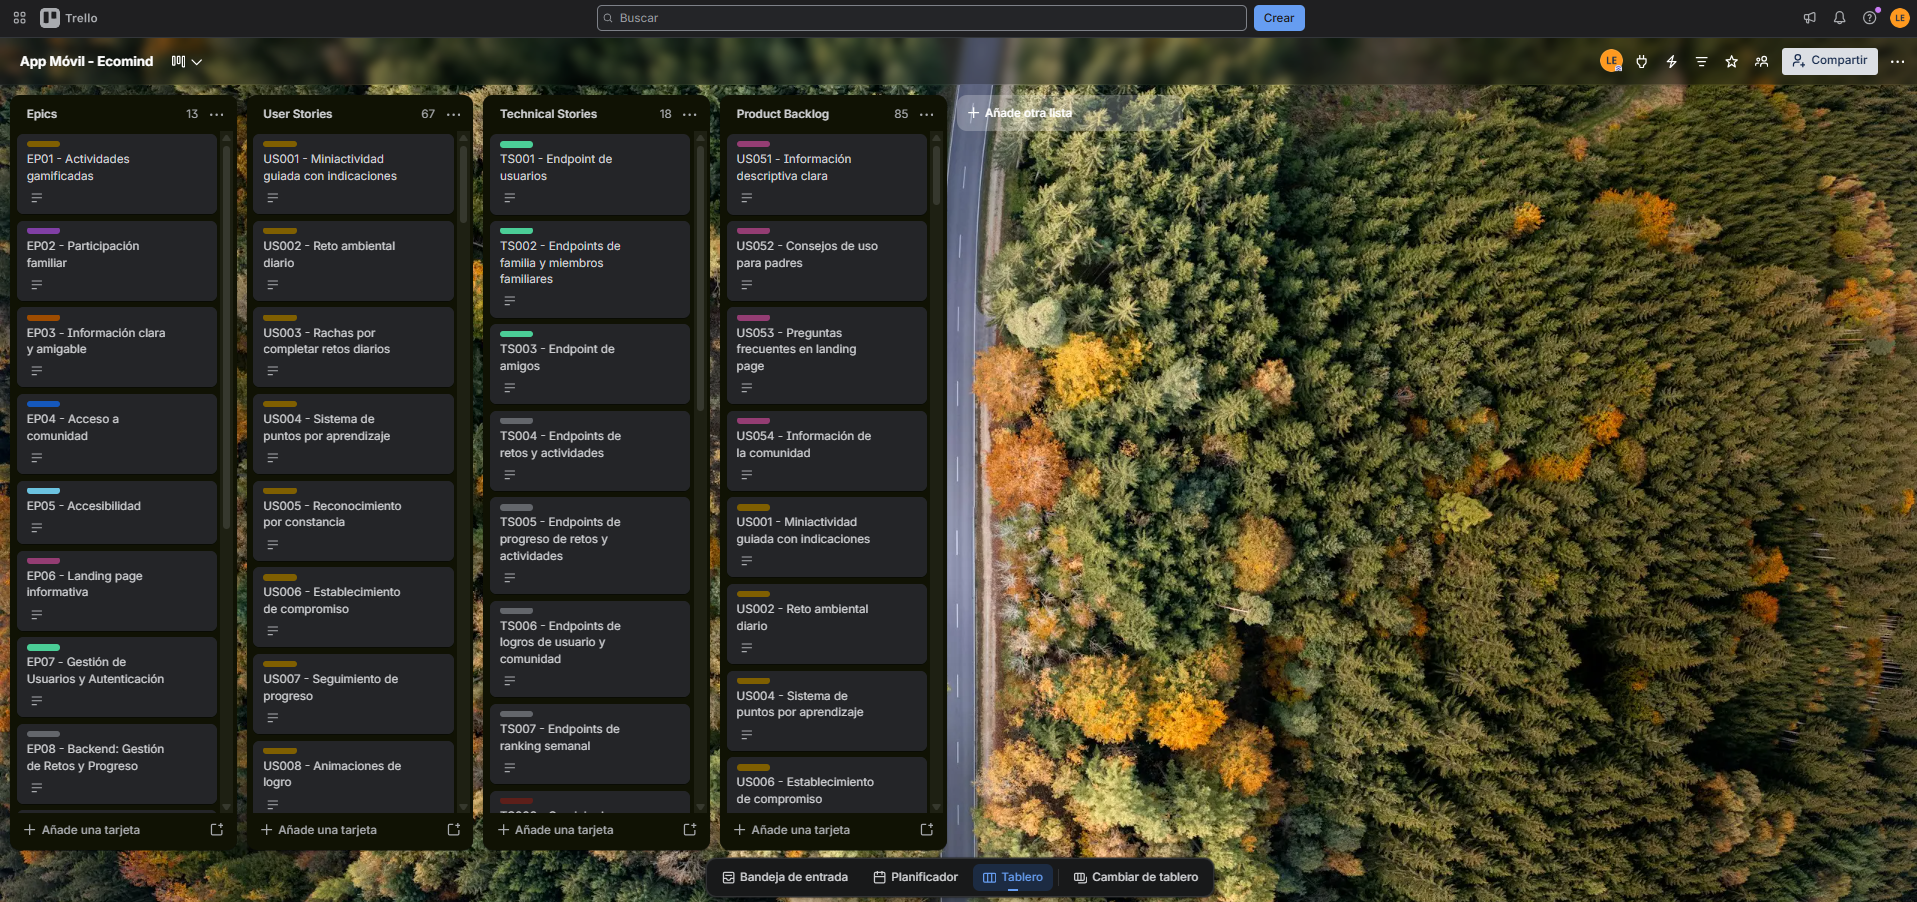
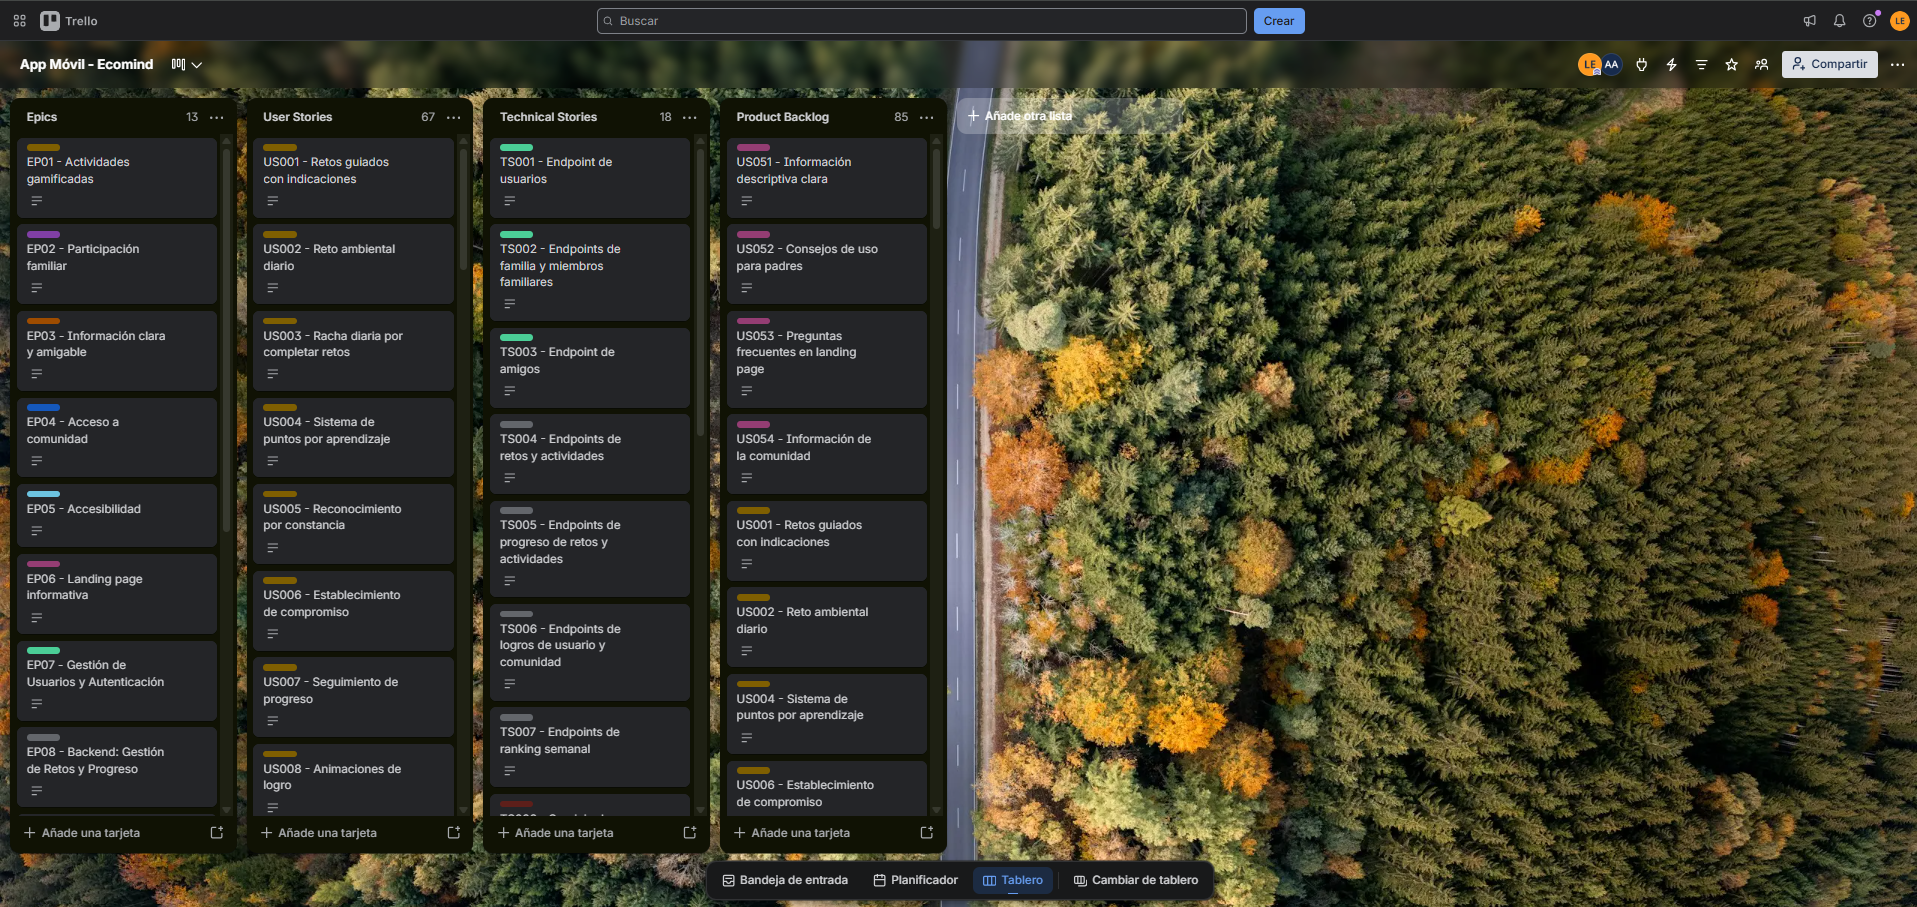
docs(chapter-ii): update users stories 1 and 3

diff --git a/README.md b/README.md
@@ -78,7 +78,7 @@ Proyecto <br>
 | 1.0.0    | 15/09/2026     |  Isabel Aponte, Alejandra Astocondor  | docs: agregar diseño de entrevistas  <br> docs: agregar registro de entrevistas <br> docs: agregar Big Picture EventStorming y EventStorming <br> docs: agregar Candidate Context Discovery  |
 | 1.0.0    | 16/09/2026     |  Leo Dulanto, Alejandra Astocondor, Mauricio Pajes  | docs: agregar user stories  <br> docs: agregar message flow <br> docs: agregar product backlog <br> docs: agregar impact mapping  <br> docs: agregar registro de entrevistas |
 | 1.0.0    | 17/09/2026     | Katty Philco, Isabel Aponte | docs: agregar registro de entrevistas <br> docs: agregar sección Needfinding <br> docs: agregar Bounded Context: Monetization <br> docs: agregar Bounded Context Software Architecture Component Level and code diagrams  <br>  |
-| 1.0.0    | 18/09/2026     | Alejandra Astocondor, Isabel Aponte, Leo Dulanto, Katty Philco | docs: agregar diagramas Bounded Context Quest <br> docs: agregar Bounded Context: Learning <br> docs: agregar bounded context canvases community <br> docs: agregar Bounded Context: IAM  <br> docs: agregar Bounded Context: User <br> docs: agregar lenguaje ubicuo <br> docs: agregar Bounded Context: Community <br> docs: agregar Bounded Context: Gamification <br> docs: agregar objetivos SMART  |
+| 1.0.0    | 18/09/2026     | Alejandra Astocondor, Isabel Aponte, Leo Dulanto, Katty Philco, Mauricio Pajes | docs: agregar diagramas Bounded Context Quest <br> docs: agregar Bounded Context: Learning <br> docs: agregar bounded context canvases community <br> docs: agregar Bounded Context: IAM  <br> docs: agregar Bounded Context: User <br> docs: agregar lenguaje ubicuo <br> docs: agregar Bounded Context: Community <br> docs: agregar Bounded Context: Gamification <br> docs: agregar objetivos SMART  |
 
 # Project Report Collaboration Insights
 
@@ -1641,46 +1641,46 @@ Cada user story describe una necesidad desde la perspectiva del usuario o del eq
   </tr>
   <tr>
     <td><b>Título</b></td>
-    <td colspan="3">Miniactividad guiada con indicaciones</td>
+    <td colspan="3">Retos guiados con indicaciones</td>
   </tr>
   <tr>
     <td><b>Descripción</b></td>
-    <td colspan="3">Como estudiante, quiero completar miniactividades guiadas con indicaciones claras, para aprender de forma entretenida dentro de la aplicación.</td>
+    <td colspan="3">Como estudiante, quiero completar retos guiados con indicaciones claras, para aprender de forma entretenida dentro de la aplicación.</td>
   </tr>
   <tr>
     <td colspan="4">
       <b>Criterios de aceptación:</b><br/><br/>
-      <b>Escenario 1:</b> Ver miniactividad<br/>
+      <b>Escenario 1:</b> Ver retos<br/>
       <ul>
         <li><b>Dado que</b> el estudiante se encuentra en el menú principal,</li>
-        <li><b>Cuando</b> elige una miniactividad,</li>
-        <li><b>Entonces</b> la aplicación le muestra un resumen de la miniactividad.</li>
+        <li><b>Cuando</b> elige un reto,</li>
+        <li><b>Entonces</b> la aplicación le muestra un resumen del reto.</li>
       </ul>
-      <b>Escenario 2:</b> Iniciar miniactividad<br/>
+      <b>Escenario 2:</b> Iniciar reto<br/>
       <ul>
-        <li><b>Dado que</b> el estudiante está viendo una miniactividad,</li>
-        <li><b>Cuando</b> elige "iniciar actividad",</li>
-        <li><b>Entonces</b> la aplicación marca la miniactividad como activa,</li>
+        <li><b>Dado que</b> el estudiante está viendo un reto,</li>
+        <li><b>Cuando</b> elige "iniciar reto",</li>
+        <li><b>Entonces</b> la aplicación marca el reto como activo,</li>
         <li><b>Y</b> muestra un mensaje motivador de inicio.</li>
       </ul>
-      <b>Escenario 3:</b> Miniactividad completada correctamente<br/>
+      <b>Escenario 3:</b> Reto completado correctamente<br/>
       <ul>
-        <li><b>Dado que</b> el estudiante inicia una miniactividad y sigue todas las indicaciones mostradas en la pantalla,</li>
+        <li><b>Dado que</b> el estudiante inicia un reto y sigue todas las indicaciones mostradas en la pantalla,</li>
         <li><b>Cuando</b> registra que realizó cada paso correctamente,</li>
         <li><b>Entonces</b> la aplicación aprueba su trabajo,</li>
         <li><b>Y</b> muestra un mensaje motivador al finalizar.</li>
       </ul>
-      <b>Escenario 4:</b> Miniactividad incompleta<br/>
+      <b>Escenario 4:</b> Reto incompleto<br/>
       <ul>
-        <li><b>Dado que</b> el estudiante inicia una miniactividad y omite algunas indicaciones,</li>
-        <li><b>Cuando</b> el estudiante intenta finalizar la miniactividad,</li>
+        <li><b>Dado que</b> el estudiante inicia un reto y omite algunas indicaciones,</li>
+        <li><b>Cuando</b> el estudiante intenta finalizar el reto,</li>
         <li><b>Entonces</b> la aplicación no permite marcar como completado</li>
       </ul>
-      <b>Escenario 5:</b> Eliminar miniactividad<br/>
+      <b>Escenario 5:</b> Eliminar reto<br/>
       <ul>
-        <li><b>Dado que</b> el estudiante se encuentra en la sección de actividades activas y elige una miniactividad,</li>
-        <li><b>Cuando</b> selecciona "eliminar actividad" y confirma su selección,</li>
-        <li><b>Entonces</b> el sistema elimina la miniactividad de las actividades activas del usuario.</li>
+        <li><b>Dado que</b> el estudiante se encuentra en la sección de retos activos y elige un reto,</li>
+        <li><b>Cuando</b> selecciona "eliminar reto" y confirma su selección,</li>
+        <li><b>Entonces</b> el sistema elimina el reto de los retos activos del usuario.</li>
       </ul>
     </td>
   </tr>
@@ -1726,19 +1726,19 @@ Cada user story describe una necesidad desde la perspectiva del usuario o del eq
   </tr>
   <tr>
     <td><b>Título</b></td>
-    <td colspan="3">Rachas por completar retos diarios</td>
+    <td colspan="3">Racha diaria por completar retos</td>
   </tr>
   <tr>
     <td><b>Descripción</b></td>
-    <td colspan="3">Como estudiante, quiero que mi racha aumente al completar un reto diario, para motivarme a mantener hábitos sostenibles de forma constante.</td>
+    <td colspan="3">Como estudiante, quiero que mi racha aumente por el primer reto completado del día, para motivarme a mantener hábitos sostenibles de forma constante.</td>
   </tr>
   <tr>
     <td colspan="4">
       <b>Criterios de aceptación:</b><br/><br/>
-      <b>Escenario 1:</b> Incremento de racha al completar un reto diario<br/>
+      <b>Escenario 1:</b> Incremento de racha al completar un reto<br/>
       <ul>
-        <li><b>Dado que</b> el estudiante tiene un reto diario asignado,</li>
-        <li><b>Cuando</b> completa el reto diario por primera vez en el día,</li>
+        <li><b>Dado que</b> el estudiante se encuentra en la sección "Retos",</li>
+        <li><b>Cuando</b> completa un reto por primera vez en el día,</li>
         <li><b>Entonces</b> la aplicación incrementa su racha en una unidad.</li>
       </ul>
       <b>Escenario 2:</b> Restricción de incremento una vez por día<br/>
@@ -1749,7 +1749,7 @@ Cada user story describe una necesidad desde la perspectiva del usuario o del eq
       </ul>
       <b>Escenario 3:</b> Visualización de racha actualizada<br/>
       <ul>
-        <li><b>Dado que</b> el estudiante completó un reto diario correctamente,</li>
+        <li><b>Dado que</b> el estudiante completó correctamente al menos un reto en el día,</li>
         <li><b>Cuando</b> regresa al panel principal de retos,</li>
         <li><b>Entonces</b> la aplicación muestra la racha actualizada del usuario.</li>
       </ul>
@@ -3892,7 +3892,7 @@ Para establecer el orden de prioridad de las historias de usuario planteadas par
 | 2 | HU-052 | Consejos de uso para padres | Como padre, quiero visualizar recomendaciones de uso de la aplicación, para familiarizarme de mejor forma a manejarla. | 3 |
 | 3 | HU-053 | Preguntas frecuentes en landing | Como visitante, quiero visualizar una sección de preguntas frecuentes sobre la aplicación en la landing page, para contar con un conocimiento básico de la aplicación. | 2 |
 | 4 | HU-054 | Información de la comunidad en landing | Como visitante, quiero visualizar información de la sección de comunidad en la landing page, para conocer de qué formas puedo interactuar con otras personas dentro de la aplicación. | 3 |
-| 5 | HU-001 | Miniactividad guiada con indicaciones | Como estudiante, quiero completar miniactividades guiadas con indicaciones claras, para aprender de forma entretenida dentro de la aplicación. | 8 |
+| 5 | HU-001 | Retos guiados con indicaciones | Como estudiante, quiero completar retos guiados con indicaciones claras, para aprender de forma entretenida dentro de la aplicación. | 8 |
 | 6 | HU-002 | Reto ambiental diario | Como estudiante, quiero realizar un reto ambiental diario en casa o escuela, para aplicar lo aprendido fuera de la aplicación. | 5 |
 | 7 | HU-004 | Sistema de puntos por aprendizaje | Como estudiante, quiero obtener puntos al completar actividades, para mantener mi motivación dentro de la aplicación. | 5 |
 | 8 | HU-006 | Establecimiento de compromiso | Como estudiante, quiero establecer compromisos individuales, para mantenerme constante. | 3 |
@@ -3918,7 +3918,7 @@ Para establecer el orden de prioridad de las historias de usuario planteadas par
 | 28 | TS-004 | Endpoint de gestión de retos (CRUD) | Como desarrollador backend, quiero implementar la gestión de retos. | 8 |
 | 29 | TS-005 | Endpoint de progreso y puntaje del usuario | Como desarrollador backend, quiero implementar el progreso del usuario. | 5 |
 | 30 | TS-007 | Endpoint de ranking de usuarios y familias | Como desarrollador backend, quiero implementar rankings. | 5 |
-| 31 | HU-003 | Rachas por completar retos diarios | Como estudiante, quiero que mi racha aumente al completar un reto diario, para motivarme a mantener hábitos sostenibles de forma constante. | 5 |
+| 31 | HU-003 | Racha diaria por completar retos | Como estudiante, quiero que mi racha aumente por el primer reto completado del día, para motivarme a mantener hábitos sostenibles de forma constante. | 5 |
 | 32 | TS-009 | Endpoint de resumen y edición de perfil | Como desarrollador backend, quiero implementar resumen y edición de perfil. | 5 |
 | 33 | TS-010 | Endpoint de progreso del perfil | Como desarrollador backend, quiero implementar progreso de usuario. | 5 |
 | 34 | TS-011 | Endpoint de familia y amigos del perfil | Como desarrollador backend, quiero implementar amigos y familia. | 5 |
